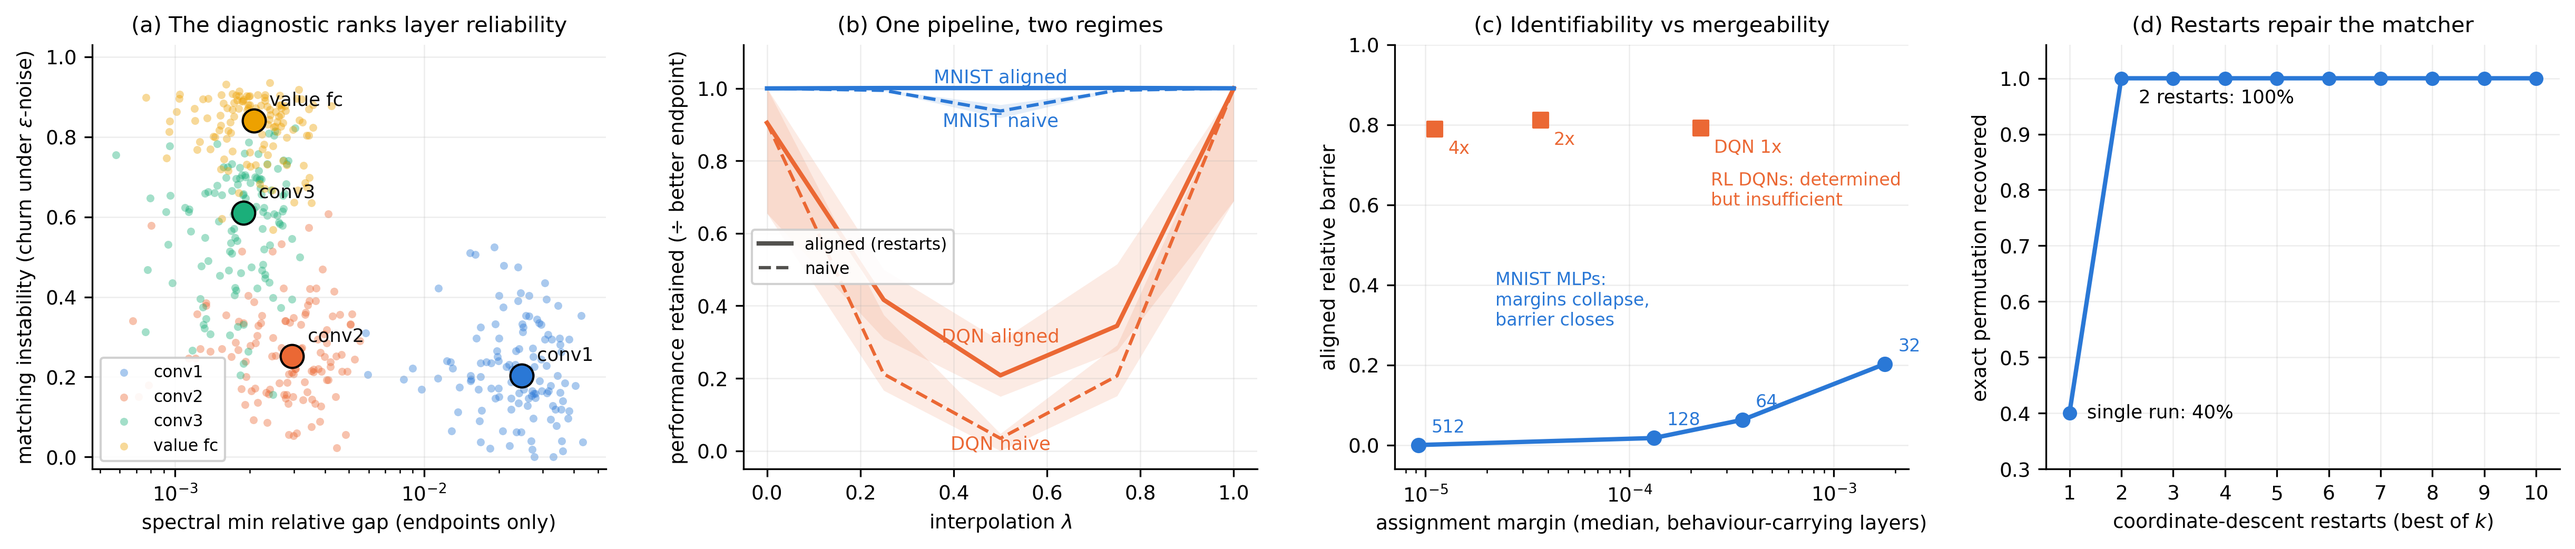
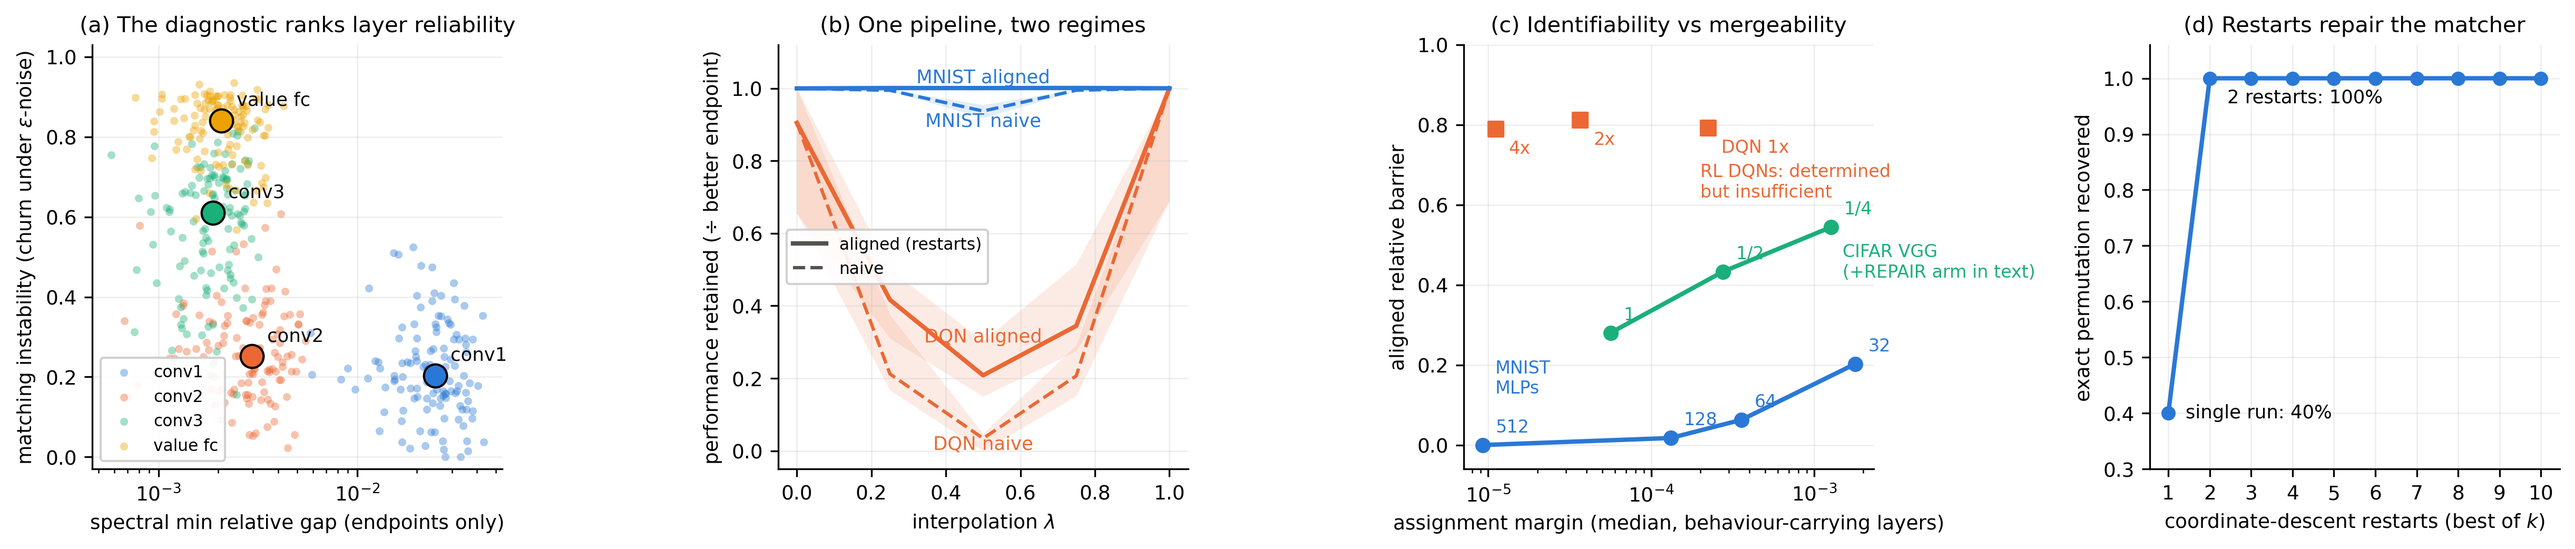
wsl: Figure 1c gains the CIFAR width family; two supervised curves, DQN off both

diff --git a/scripts/wsl_figure1.py b/scripts/wsl_figure1.py
@@ -27,7 +27,7 @@ from wsl.degeneracy import AXIS_LAYER  # noqa: E402
 
 # validated categorical palette (dataviz reference instance, light mode)
 COLORS = {"p1": "#2a78d6", "p2": "#eb6834", "p3": "#1baf7a", "p4": "#eda100"}
-BLUE, ORANGE = "#2a78d6", "#eb6834"
+BLUE, ORANGE, AQUA = "#2a78d6", "#eb6834", "#1baf7a"
 LAYER_NAMES = {"p1": "conv1", "p2": "conv2", "p3": "conv3", "p4": "value fc"}
 LAMS = [0.0, 0.25, 0.5, 0.75, 1.0]
 
@@ -113,23 +113,29 @@ def panel_c(ax, rec_path):
     ax.set_ylim(0.30, 1.06)
 
 
-def panel_d(ax, width_files, dqn_files):
-    """Identifiability vs mergeability: median conv/hidden-layer assignment
-    margin against the aligned relative barrier, MLP width family plus the
-    DQN width family."""
+def _family_curve(files):
     xs, ys, labels = [], [], []
-    for wlabel, path in width_files:
+    for wlabel, path in files:
         d = json.load(open(path))
         probed = [e for e in d["pairs"] if "assignment_gap" in e]
-        axes_m = ("h1", "h2", "h3")
+        axes_m = sorted(probed[0]["assignment_gap"])
         marg = np.median([e["assignment_gap"][ax]["rel_gap"]
                           for e in probed for ax in axes_m])
         bar = np.median([e["aligned_barrier"]["rel_barrier"] for e in d["pairs"]])
         xs.append(max(marg, 1e-9)); ys.append(bar); labels.append(wlabel)
-    ax.plot(xs, ys, "-o", color=BLUE, lw=2.0, ms=6, zorder=3)
-    for x, y, lab in zip(xs, ys, labels):
-        ax.annotate(lab, (x, y), textcoords="offset points", xytext=(6, 6),
-                    fontsize=8, color=BLUE)
+    return xs, ys, labels
+
+
+def panel_d(ax, families, dqn_files):
+    """Identifiability vs mergeability: median assignment margin of the
+    permutable layers against the aligned relative barrier; supervised width
+    families as descending curves, the DQN width family off the curve."""
+    for fam_color, files in families:
+        xs, ys, labels = _family_curve(files)
+        ax.plot(xs, ys, "-o", color=fam_color, lw=2.0, ms=6, zorder=3)
+        for x, y, lab in zip(xs, ys, labels):
+            ax.annotate(lab, (x, y), textcoords="offset points", xytext=(6, 6),
+                        fontsize=8, color=fam_color)
     dx, dy, dl = [], [], []
     for wlabel, e3_path, bar_val in dqn_files:
         d = json.load(open(e3_path))
@@ -140,9 +146,9 @@ def panel_d(ax, width_files, dqn_files):
     for x, y, lab in zip(dx, dy, dl):
         ax.annotate(lab, (x, y), textcoords="offset points", xytext=(6, -11),
                     fontsize=8, color=ORANGE)
-    ax.annotate("MNIST MLPs:\nmargins collapse,\nbarrier closes", (2.2e-5, 0.30),
-                fontsize=8, color=BLUE)
-    ax.annotate("RL DQNs: determined\nbut insufficient", (2.5e-4, 0.60),
+    ax.annotate("MNIST\nMLPs", (1.1e-5, 0.13), fontsize=8, color=BLUE)
+    ax.annotate("CIFAR VGG\n(+REPAIR arm in text)", (1.5e-3, 0.42), fontsize=8, color=AQUA)
+    ax.annotate("RL DQNs: determined\nbut insufficient", (2.0e-4, 0.62),
                 fontsize=8, color=ORANGE)
     ax.set_xscale("log")
     ax.set_xlabel("assignment margin (median, behaviour-carrying layers)")
@@ -166,8 +172,11 @@ def main():
     fig, axes = plt.subplots(1, 4, figsize=(16.4, 3.6))
     panel_a(axes[0], args.e3)
     panel_b(axes[1], args.dqn_barriers, args.mlp)
-    panel_d(axes[2], [("32", "results/wsl_z4w32.json"), ("64", "results/wsl_z4w64.json"),
-                      ("128", "results/wsl_z4w128.json"), ("512", "results/wsl_z4.json")],
+    panel_d(axes[2],
+            [(BLUE, [("32", "results/wsl_z4w32.json"), ("64", "results/wsl_z4w64.json"),
+                     ("128", "results/wsl_z4w128.json"), ("512", "results/wsl_z4.json")]),
+             (AQUA, [("1/4", "results/wsl_cifar_m0p25.json"), ("1/2", "results/wsl_cifar_m0p5.json"),
+                     ("1", "results/wsl_cifar_m1p0.json")])],
             [("DQN 1x", "results/wsl_e3r_zoo16.json", 0.792),
              ("2x", "results/wsl_e3r_w2.json", 0.812),
              ("4x", "results/wsl_e3r_w4.json", 0.789)])
